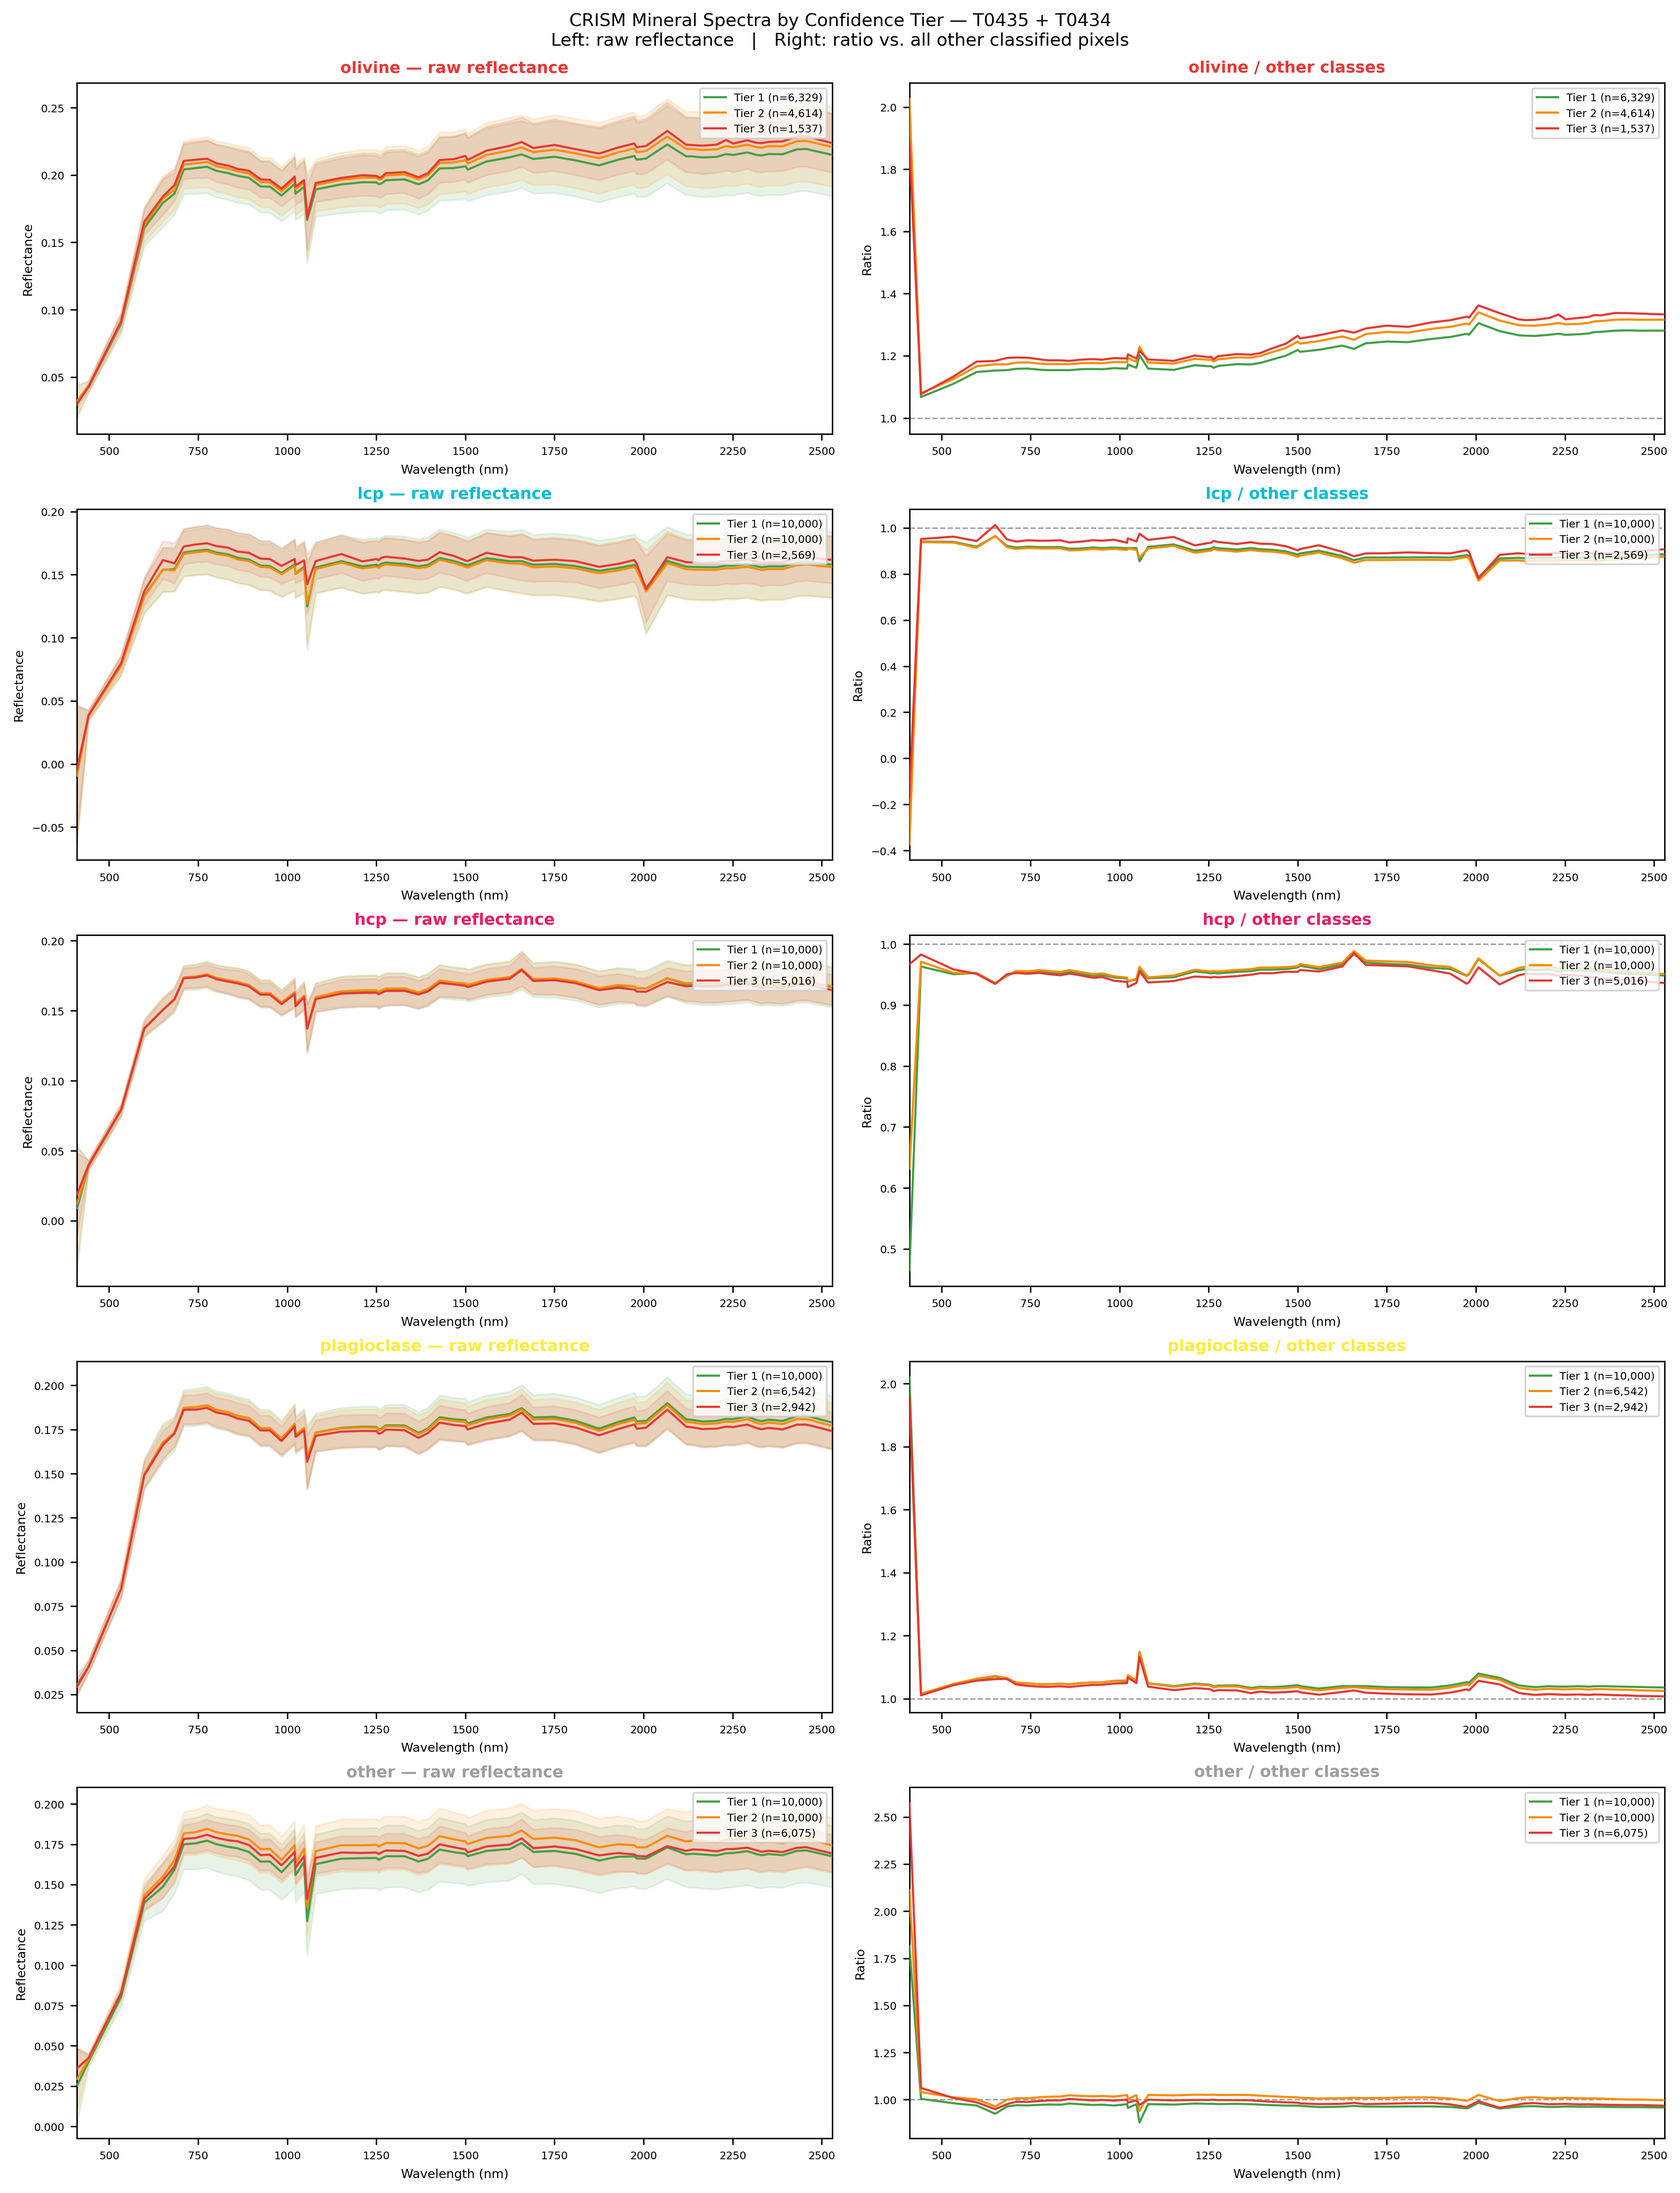
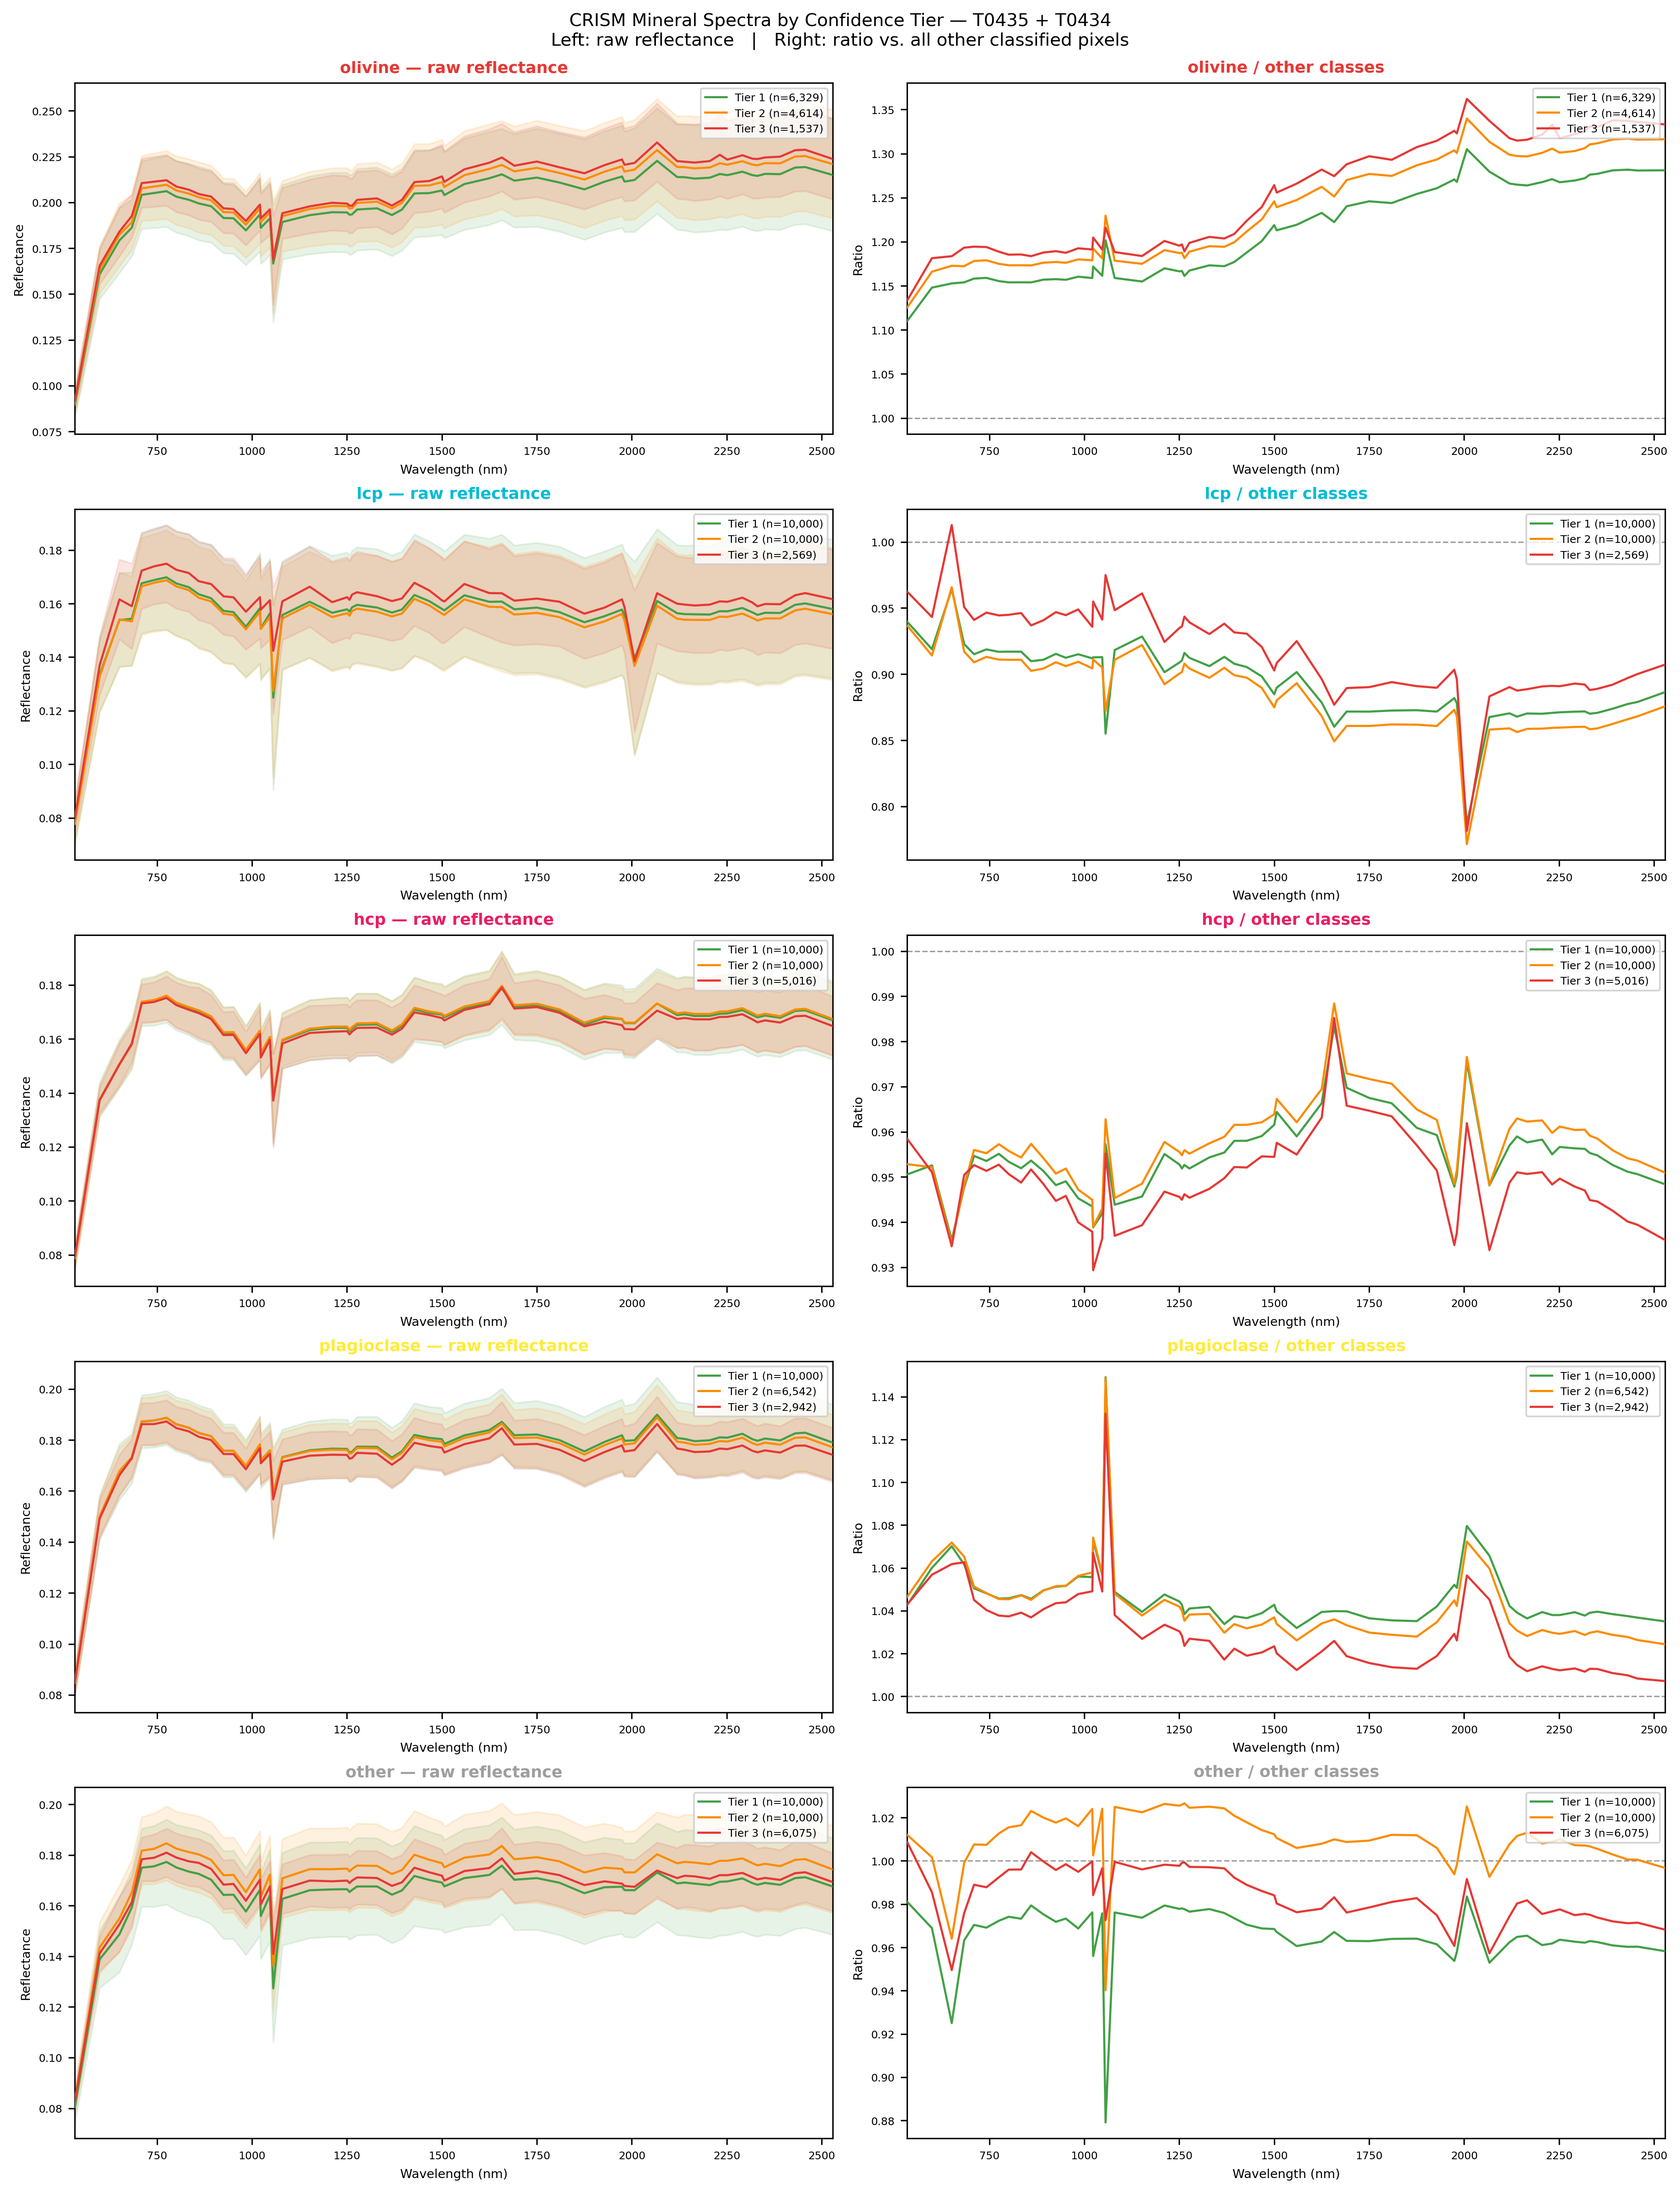
fix: update mineral spectra plot range to 500–2600 nm

diff --git a/scripts/plot_mineral_spectra.py b/scripts/plot_mineral_spectra.py
@@ -184,7 +184,7 @@ def main():
     spectra, wav = collect_spectra(TILES)
 
     # Restrict to VNIR–SWIR range (400–2600 nm)
-    band_mask = (wav >= 400) & (wav <= 2600)
+    band_mask = (wav >= 500) & (wav <= 2600)
     wav = wav[band_mask]
     for mineral in CLASS_NAMES:
         for tier in TIERS:
